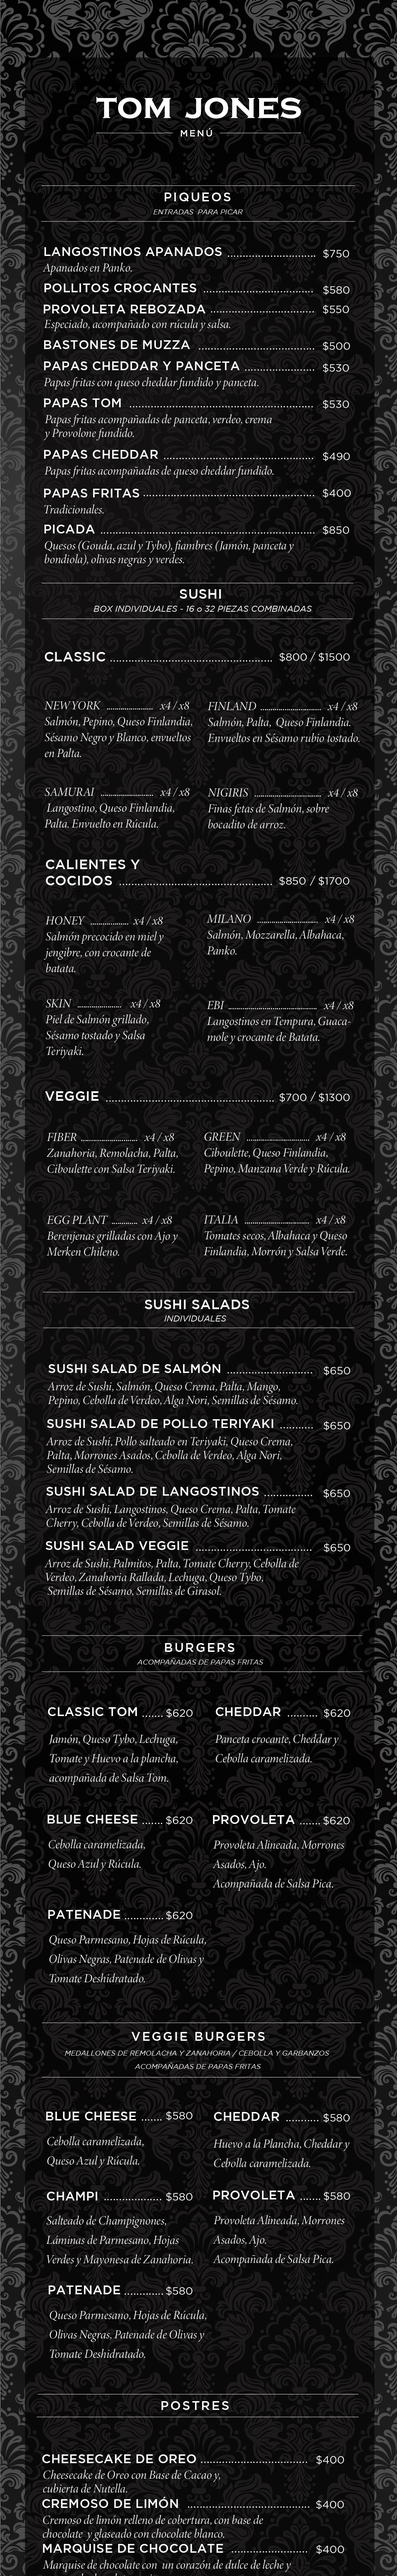
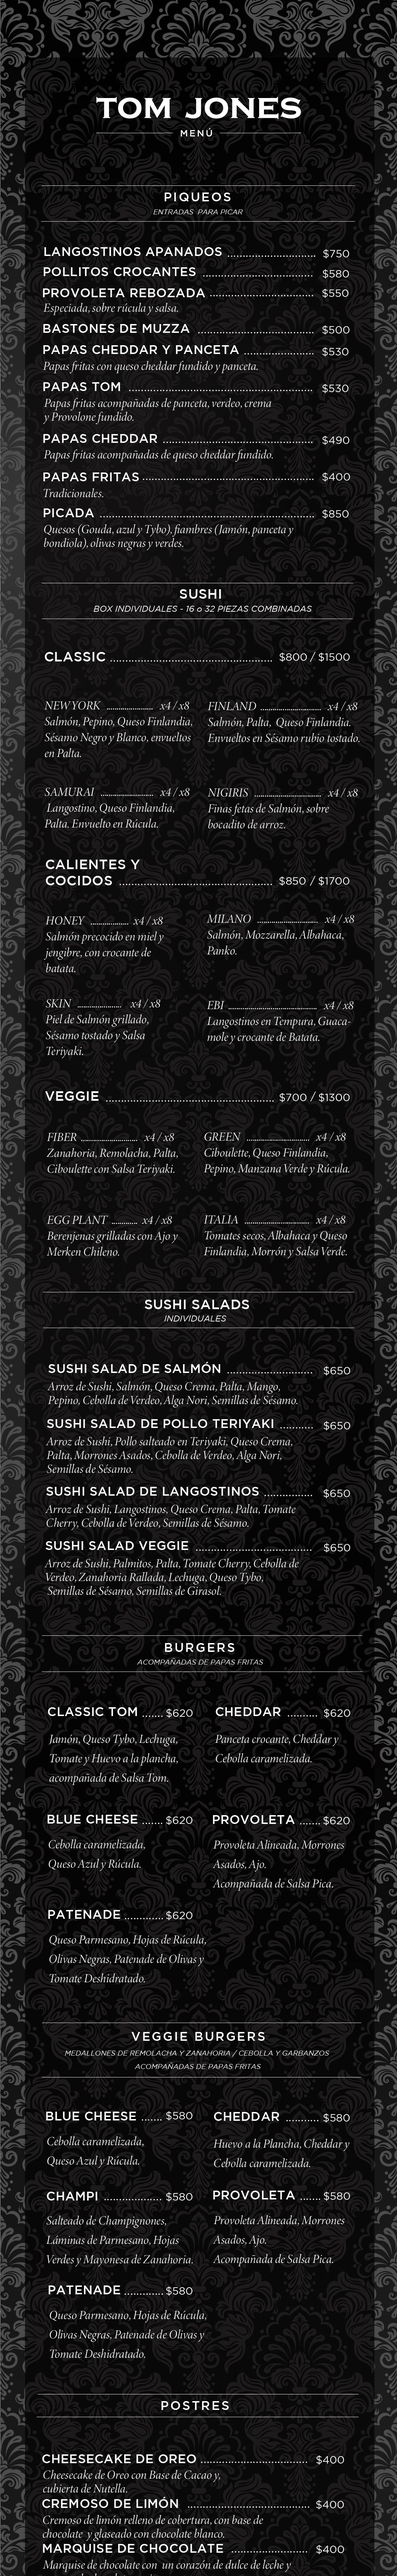
Menu, Vinos, Tragos and sinalcohol update
Vinos after 12 hour change

Changed region(s): [[0.0933, 0.0936, 0.6838, 0.2185], [0.8082, 0.0936, 0.8703, 0.2185]]

diff --git a/src/Vinos.js b/src/Vinos.js
@@ -1,11 +1,24 @@
 import React from 'react';
 import './Menu.css'
 import headerImage from "./assets/vinos.jpg";
+import headerImageAfter12 from "./assets/vinos12.jpg";
+
 
 function Vinos() {
-    return (
-        <img src={headerImage} className="Menu" alt="logo"/>
-    );
+
+    var hour = new Date().getHours().toLocaleString("es-AR", {timeZone: "America/Argentina/Buenos_Aires"})
+
+    if (hour => 0 && hour <= 8) {
+        return (
+            <img src={headerImageAfter12} className="Menu" alt="logo"/>
+        );
+    }
+    else
+        return (
+            <img src={headerImage} className="Menu" alt="logo"/>
+        );
+
+
 }
 
 export default Vinos;

diff --git a/src/Tragos.js b/src/Tragos.js
@@ -2,10 +2,12 @@ import React from 'react';
 import './Menu.css'
 import headerImage from "./assets/tragos.jpg";
 
+
 function Tragos() {
     return (
         <img src={headerImage} className="Menu" alt="logo"/>
     );
+
 }
 
 export default Tragos;

diff --git a/src/Menu.css b/src/Menu.css
@@ -5,7 +5,7 @@
 }
 
 .SinAlcohol {
-    background-image: url("./assets/sinalcohol.png");
+    background-image: url("./assets/sinalcohol.jpg");
     background-size: 100% 100%;
     min-height: 100vh;
 }

diff --git a/src/App.css b/src/App.css
@@ -29,7 +29,7 @@
 }
 
 .TomJonesLogo {
-  margin-top: -px;
+  margin-top: 10px;
   margin-bottom: 20px;
   height: 50px;
 }
